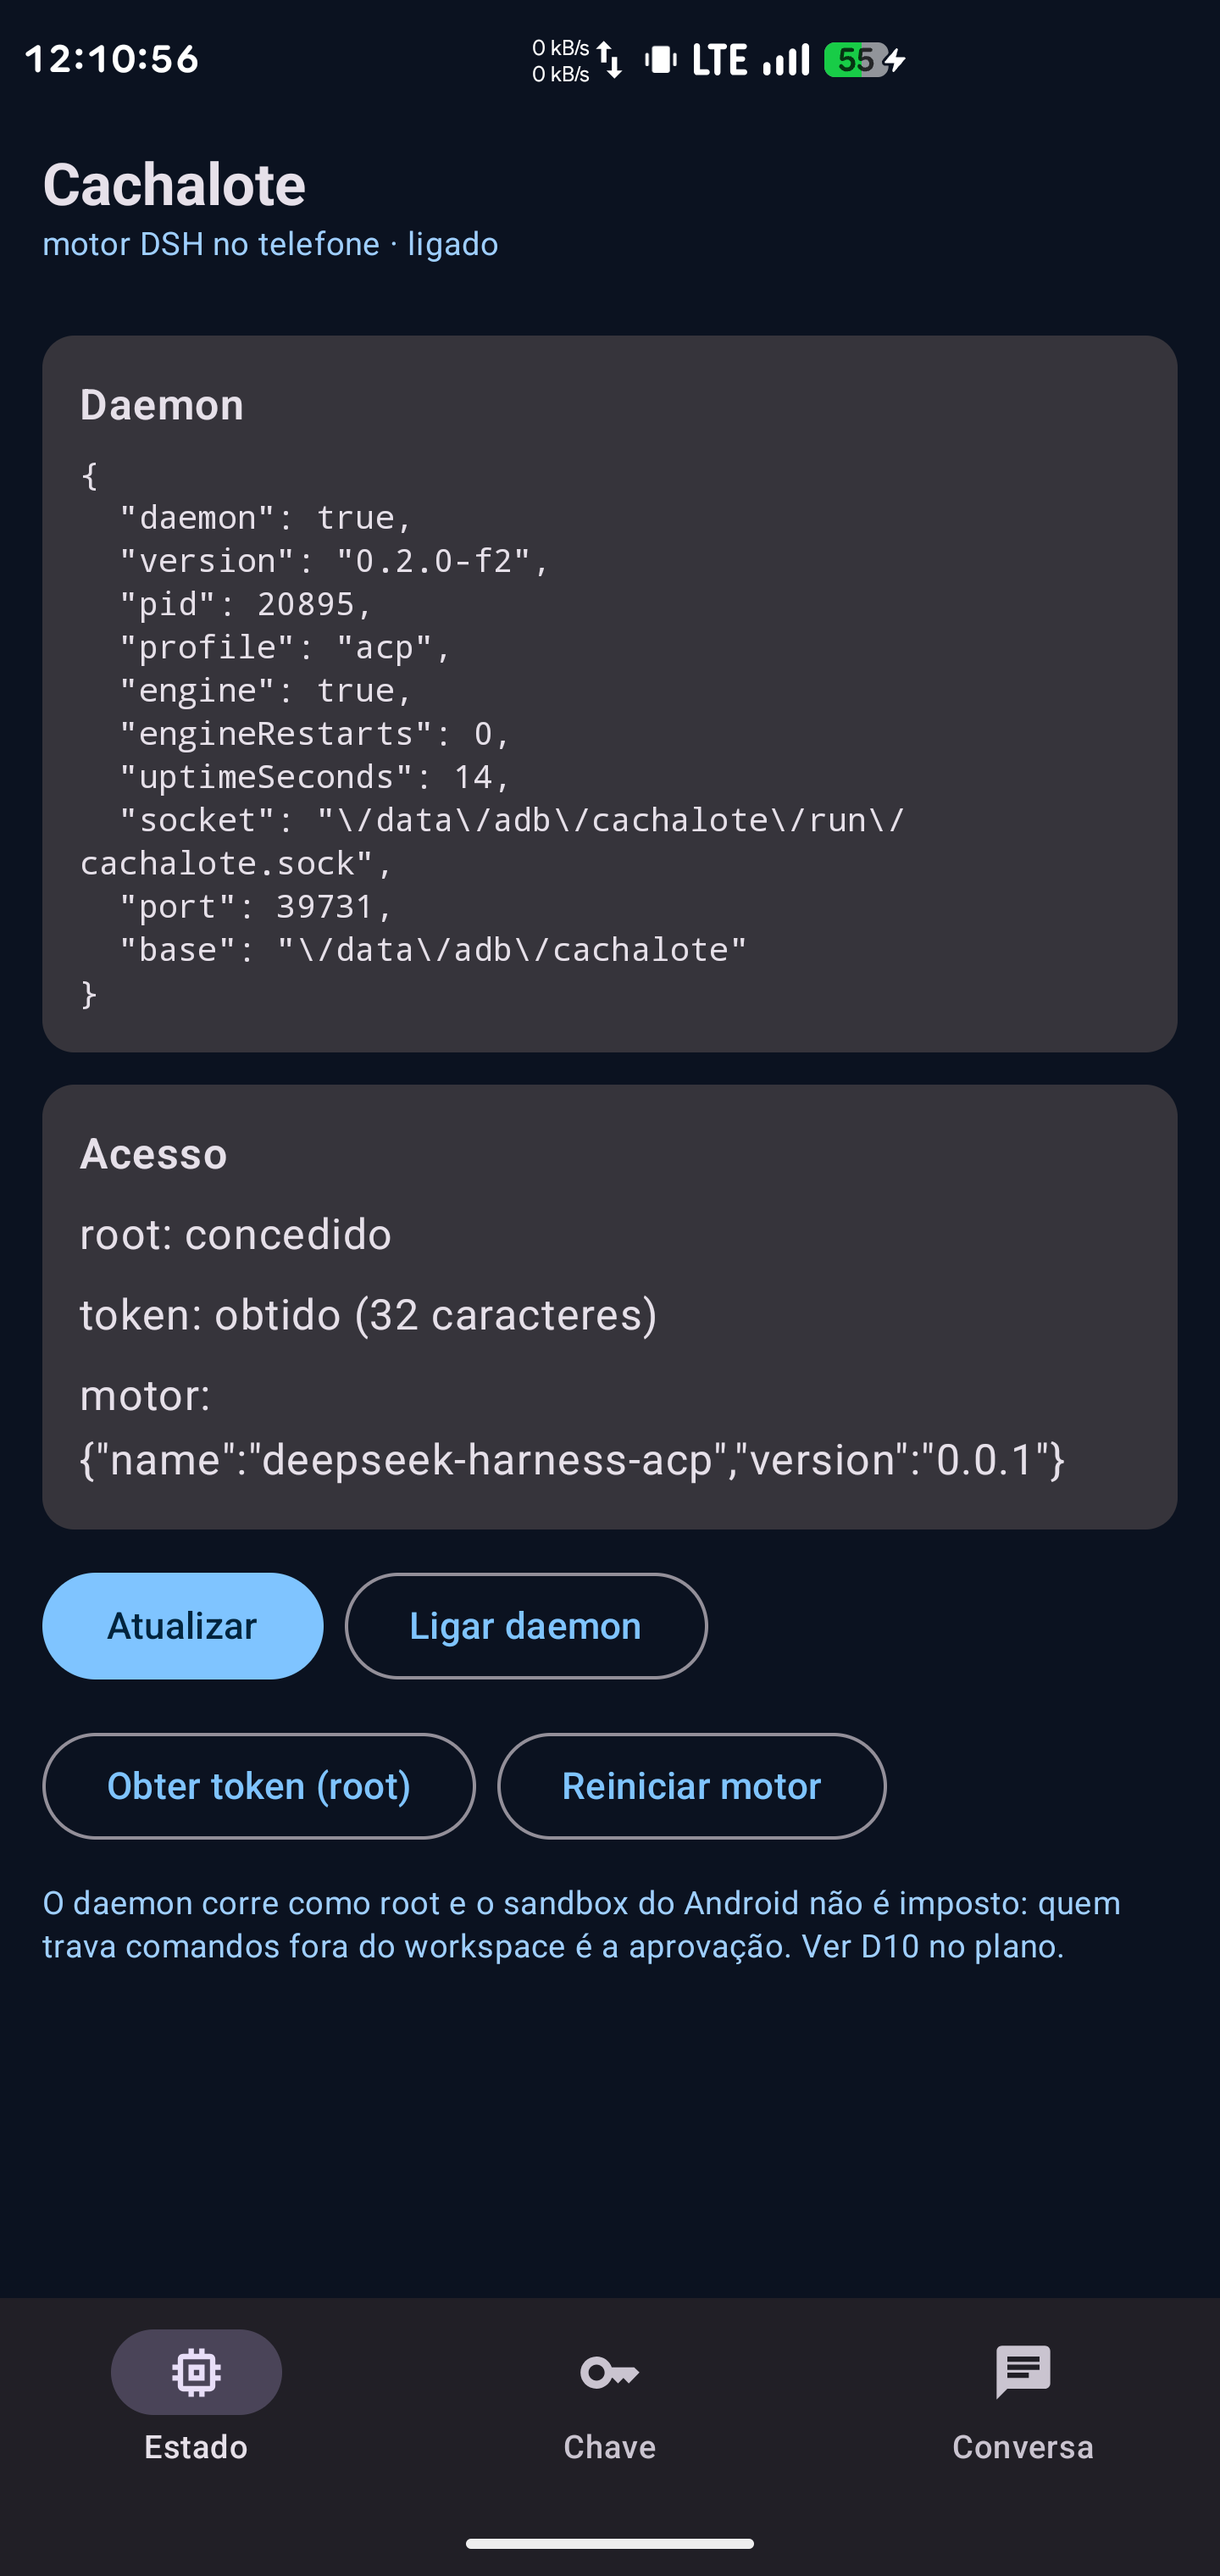
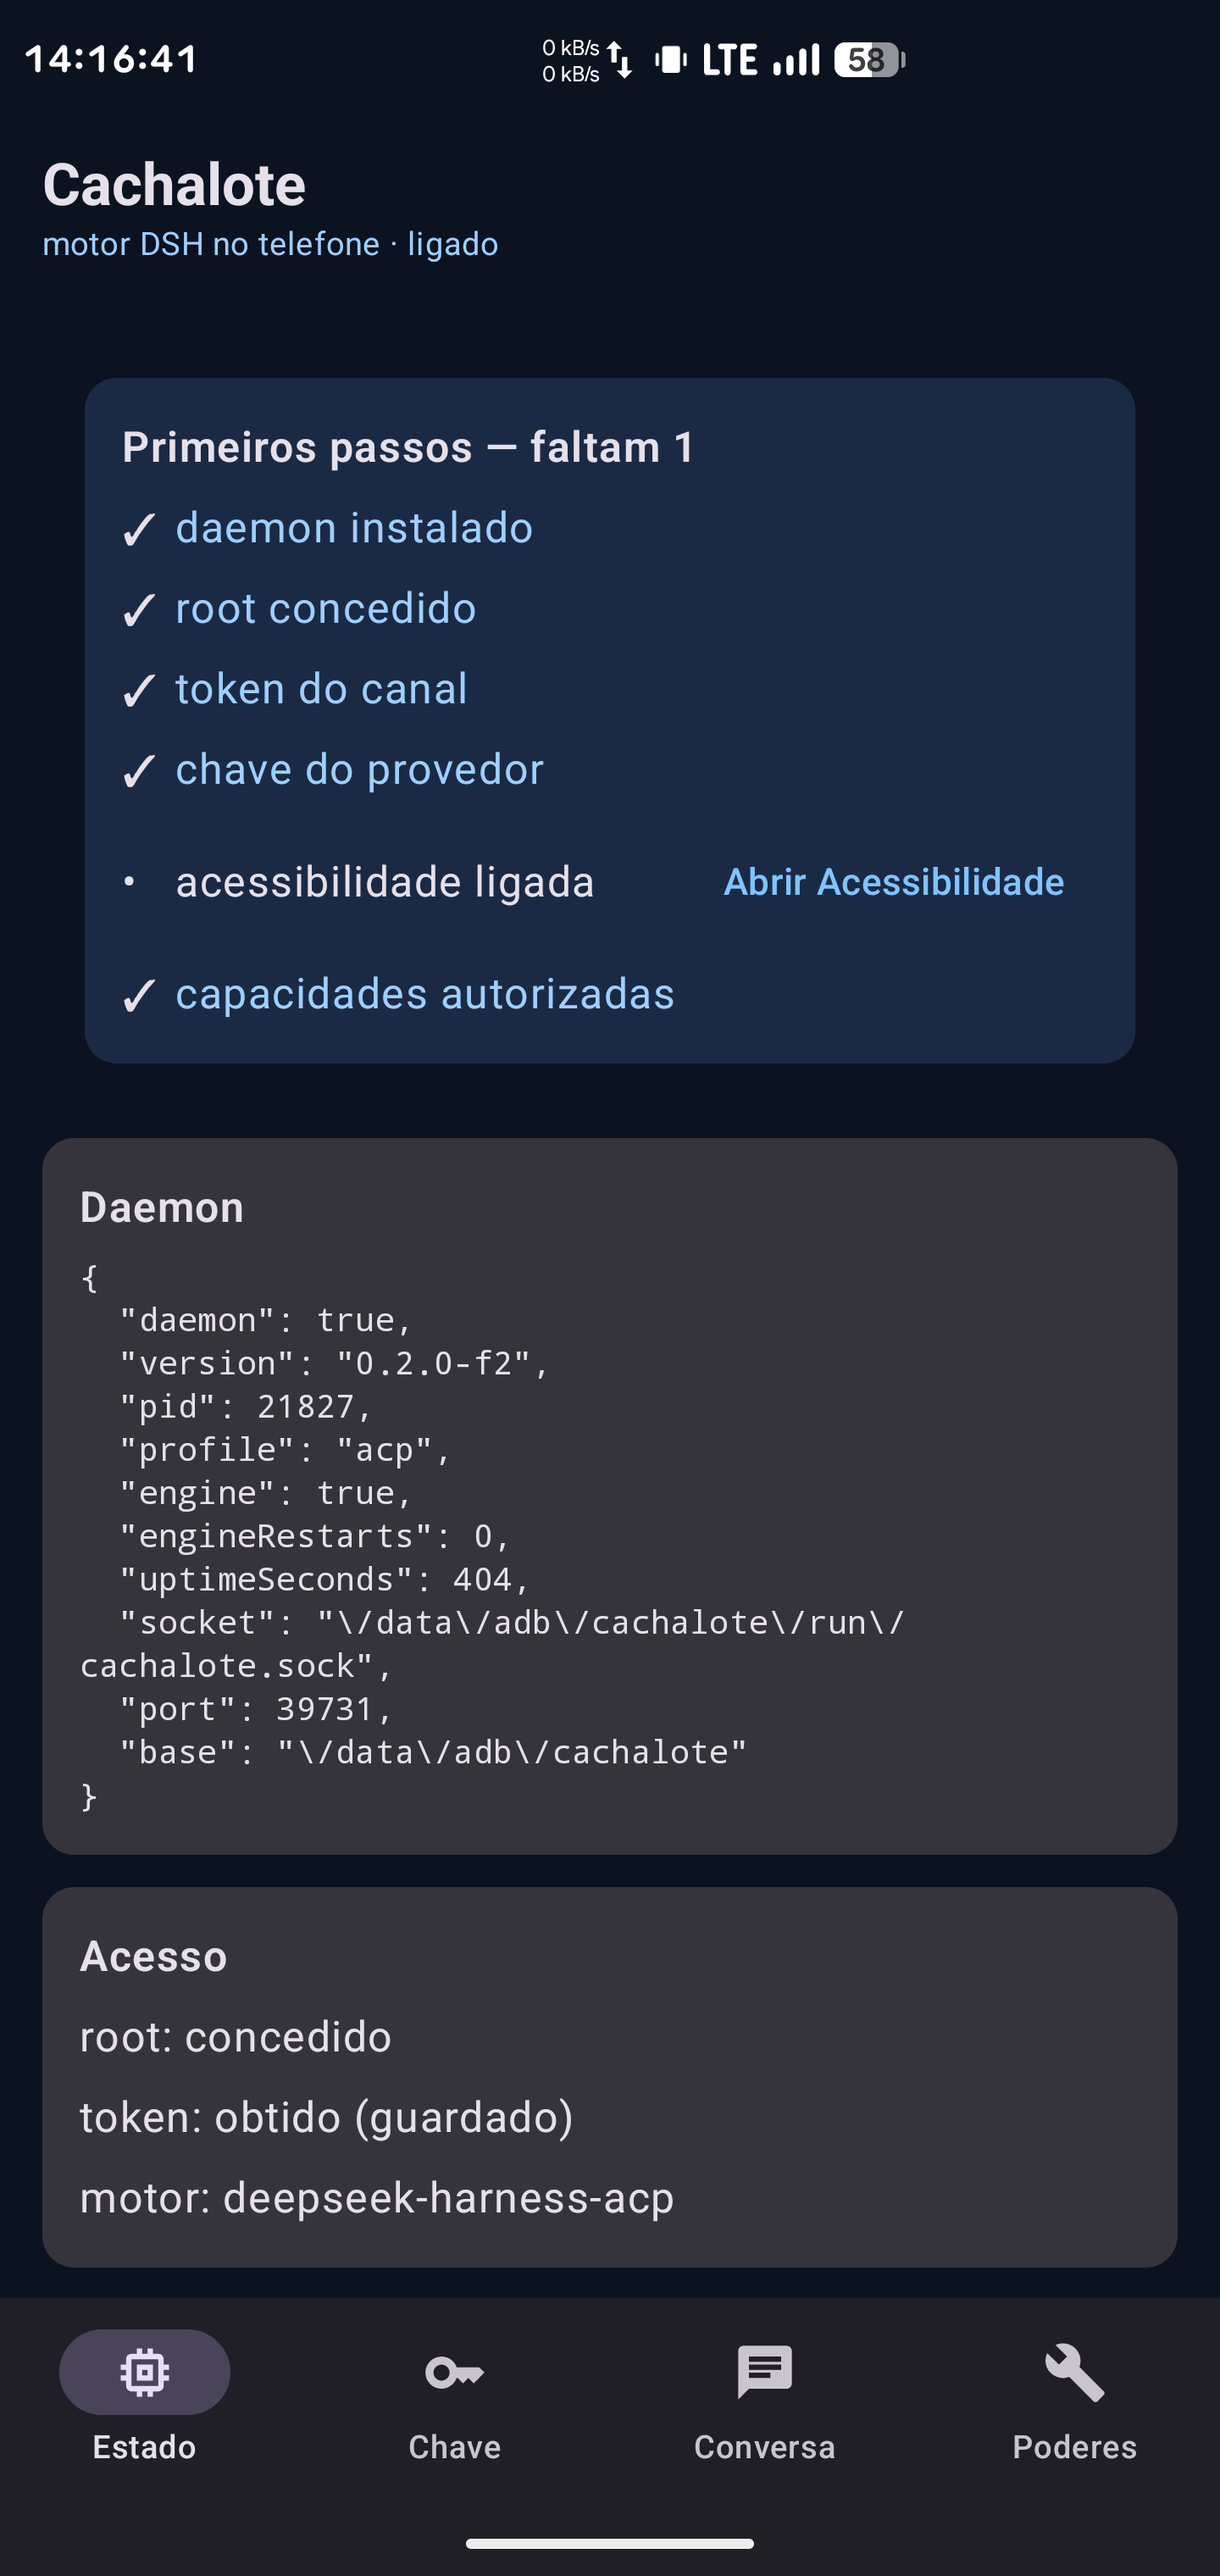
onboarding: estado da acessibilidade no ViewModel (deixa de ficar preso)
- diagnosticado: force-stop/reinstalacao desligam o servico de acessibilidade (knowledge 63)
  e o valor lido de um singleton num remember local ficava preso (knowledge 64)
- o cartao some quando esta tudo pronto (verificado: 'sem cartao - tudo pronto')

diff --git a/app/app/src/main/java/dev/ricardopimentel/cachalote/MainActivity.kt b/app/app/src/main/java/dev/ricardopimentel/cachalote/MainActivity.kt
@@ -400,16 +400,9 @@ private fun CapabilitiesScreen(vm: MainViewModel) {
  */
 @Composable
 private fun OnboardingCard(vm: MainViewModel) {
-    var tick by remember { mutableStateOf(0) }
-    LaunchedEffect(Unit) {
-        while (true) {
-            kotlinx.coroutines.delay(3000)
-            tick++
-        }
-    }
     val ctx = androidx.compose.ui.platform.LocalContext.current
-    val accessibility = remember(tick) { CachaloteAccessibilityService.isEnabled() }
-    val allowed = remember(tick) { vm.capabilityToggles.count { it.value } }
+    val accessibility = vm.accessibilityOn
+    val allowed = vm.capabilityToggles.count { it.value }
     val checks = listOf(
         Triple("daemon instalado", vm.daemonInstalled == true, "Ligar daemon" to { vm.startDaemon() }),
         Triple("root concedido", vm.rootOk == true, "Obter token (root)" to { vm.obtainToken() }),
@@ -477,6 +470,10 @@ private fun StatusScreen(vm: MainViewModel) {
                 Text("Acesso", fontWeight = FontWeight.SemiBold)
                 Text("root: " + when (vm.rootOk) { true -> "concedido"; false -> "negado"; null -> "?" })
                 Text("token: ${vm.tokenState}")
+                Text(
+                    "diagnóstico: pid ${android.os.Process.myPid()} · a11y ${vm.accessibilityOn}",
+                    style = MaterialTheme.typography.bodySmall,
+                )
                 Text("motor: ${vm.agentInfo.ifBlank { "(handshake ainda não feito)" }}")
             }
         }

diff --git a/app/app/src/main/java/dev/ricardopimentel/cachalote/MainViewModel.kt b/app/app/src/main/java/dev/ricardopimentel/cachalote/MainViewModel.kt
@@ -67,6 +67,9 @@ class MainViewModel(app: Application) : AndroidViewModel(app) {
     var reconnecting by mutableStateOf(false)
     var audit by mutableStateOf<List<String>>(emptyList())
     var embedTest by mutableStateOf("(não testado)")
+
+    /** Acessibilidade ligada? Vem do próprio serviço; refrescado por um laço do ViewModel. */
+    var accessibilityOn by mutableStateOf(CachaloteAccessibilityService.isEnabled())
     var capabilityToggles by mutableStateOf<Map<String, Boolean>>(emptyMap())
 
     private val store = SessionStore(app)
@@ -132,6 +135,14 @@ class MainViewModel(app: Application) : AndroidViewModel(app) {
             runCatching { refreshStatus() }
             runCatching { run("chave") { refreshKeyStatus() } }
         refreshCapabilities()
+        // O serviço de acessibilidade liga/desliga fora do nosso controlo (Definições do
+        // sistema, force-stop): manter o estado fresco sem depender de efeitos da UI.
+        viewModelScope.launch {
+            while (true) {
+                accessibilityOn = CachaloteAccessibilityService.isEnabled()
+                kotlinx.coroutines.delay(2_000)
+            }
+        }
         }
         viewModelScope.launch {
             controller.client.events.collect { onEvent(it) }

diff --git a/docs/knowledge-android.md b/docs/knowledge-android.md
@@ -563,3 +563,24 @@ Se algum dia testarmos em emulador: precisa de `-writable-system`, das `.so` de 
 - **Solução:** o cabeçalho entra **dentro** do scroll existente (primeiro filho), ou como
   `item {}` se o contentor for um `LazyColumn`.
 - **Origem:** **[LOCAL]**.
+
+### 63. `force-stop` **desliga** o serviço de acessibilidade
+- **Observação:** depois de `adb shell am force-stop <pkg>` (ou de uma reinstalação da APK),
+  `settings get secure enabled_accessibility_services` fica `null`/vazio e
+  `dumpsys accessibility` mostra `Bound services:{}`. O Android revalida/limpa os serviços de
+  acessibilidade quando a app é actualizada ou forçada a parar.
+- **Consequência para o produto:** o utilizador (e os nossos testes) tem de **religar** o
+  serviço; a app não pode assumir que continua ligado. O cartão de primeiros passos detecta e
+  oferece o botão "Abrir Acessibilidade" — foi assim que se descobriu, não por acidente.
+- **Nos testes:** `tools/app-capabilities-test.sh` religa-o automaticamente quando falta.
+- **Origem:** **[LOCAL]**.
+
+### 64. Estado lido de um singleton não pode ficar preso num `remember` local
+- **Sintoma:** o cartão de primeiros passos mostrava "acessibilidade ligada" como pendente
+  enquanto uma linha de diagnóstico, na **mesma** composição, imprimia `a11y true`.
+- **Causa:** o valor vinha de `remember { mutableStateOf(Servico.isEnabled()) }` inicializado
+  quando o serviço ainda não estava ligado; o `LaunchedEffect` local que o devia refrescar não
+  corria como esperado.
+- **Solução:** o estado vive no **ViewModel** (`accessibilityOn`) e é refrescado por um laço
+  do `viewModelScope` — independente do ciclo de composição. A UI só lê.
+- **Origem:** **[LOCAL]**.
